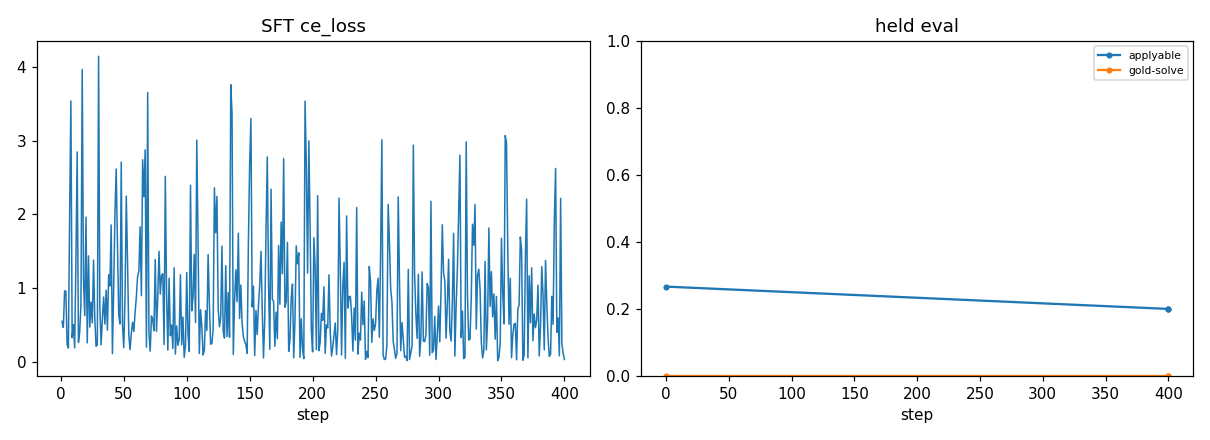
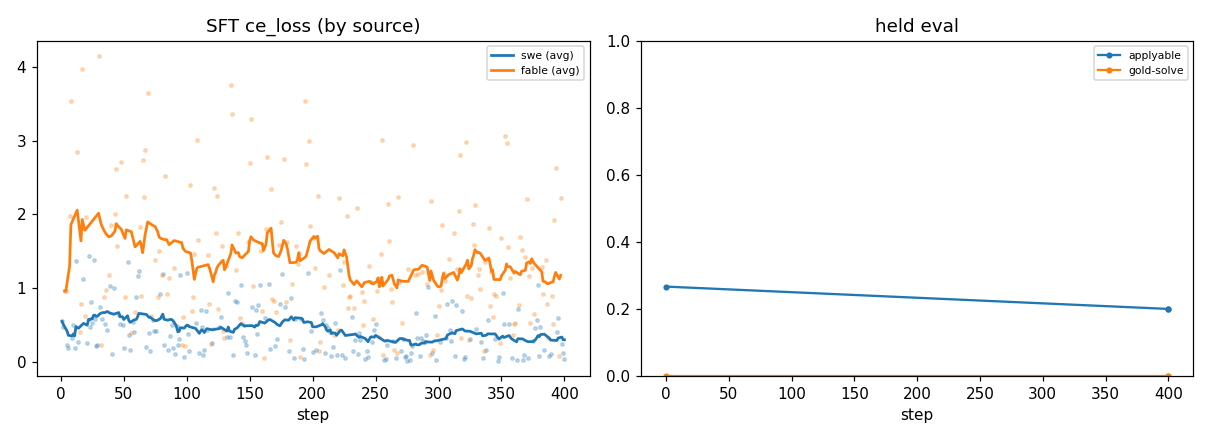
feat(swe_rl): split SFT-loss plot by source (SWE vs Fable) + rolling-mean trend
The single lumped loss line read as a non-converging sawtooth (the user's observation). Splitting by
src shows the truth: SWE converges low (0.55->0.30, memorizing 80 tasks), Fable stays high (~1.2,
underfit: tiny LoRA + 2539 diverse noisy-intent targets), and held DECLINED 27->20% — Fable-in-realizer
hurts. Confirms Fable belongs in TRAVERSE (reasoning), not the realizer (leaf emission).

Changed region(s): [[0.0306, 0.1477, 0.4893, 0.8273], [0.3975, 0.0886, 0.4893, 0.2068], [0.1529, 0.0295, 0.3364, 0.0886]]

diff --git a/v5/runtime/swe_rl.py b/v5/runtime/swe_rl.py
@@ -322,7 +322,19 @@ def _save_train_plots(metrics: dict, out_dir: str) -> None:
         rows = metrics[k]
         xs = [r.get("step", i) for i, r in enumerate(rows)]
         if k == "sft":
-            ax.plot(xs, [r["ce_loss"] for r in rows], lw=1); ax.set_title("SFT ce_loss"); ax.set_xlabel("step")
+            for src, col in (("swe", "C0"), ("fable", "C1")):       # split streams: SWE vs Fable
+                sub = [(r.get("step", i), r["ce_loss"]) for i, r in enumerate(rows) if r.get("src", "swe") == src]
+                if not sub:
+                    continue
+                sx = [a for a, _ in sub]; sy = [b for _, b in sub]
+                ax.scatter(sx, sy, s=5, alpha=.25, color=col)
+                if len(sy) >= 6:                                     # rolling-mean trend
+                    w = max(3, min(15, len(sy) // 4))
+                    sm = [sum(sy[max(0, j - w):j + 1]) / len(sy[max(0, j - w):j + 1]) for j in range(len(sy))]
+                    ax.plot(sx, sm, color=col, lw=1.8, label=f"{src} (avg)")
+                else:
+                    ax.plot(sx, sy, color=col, lw=1.2, label=src)
+            ax.set_title("SFT ce_loss (by source)"); ax.set_xlabel("step"); ax.legend(fontsize=7)
         elif k == "grpo":
             ax.plot(xs, [r["mean_r"] for r in rows], label="mean_r", lw=1)
             ax.plot(xs, [r.get("gnorm", 0) for r in rows], label="gnorm", lw=1, alpha=.6)
